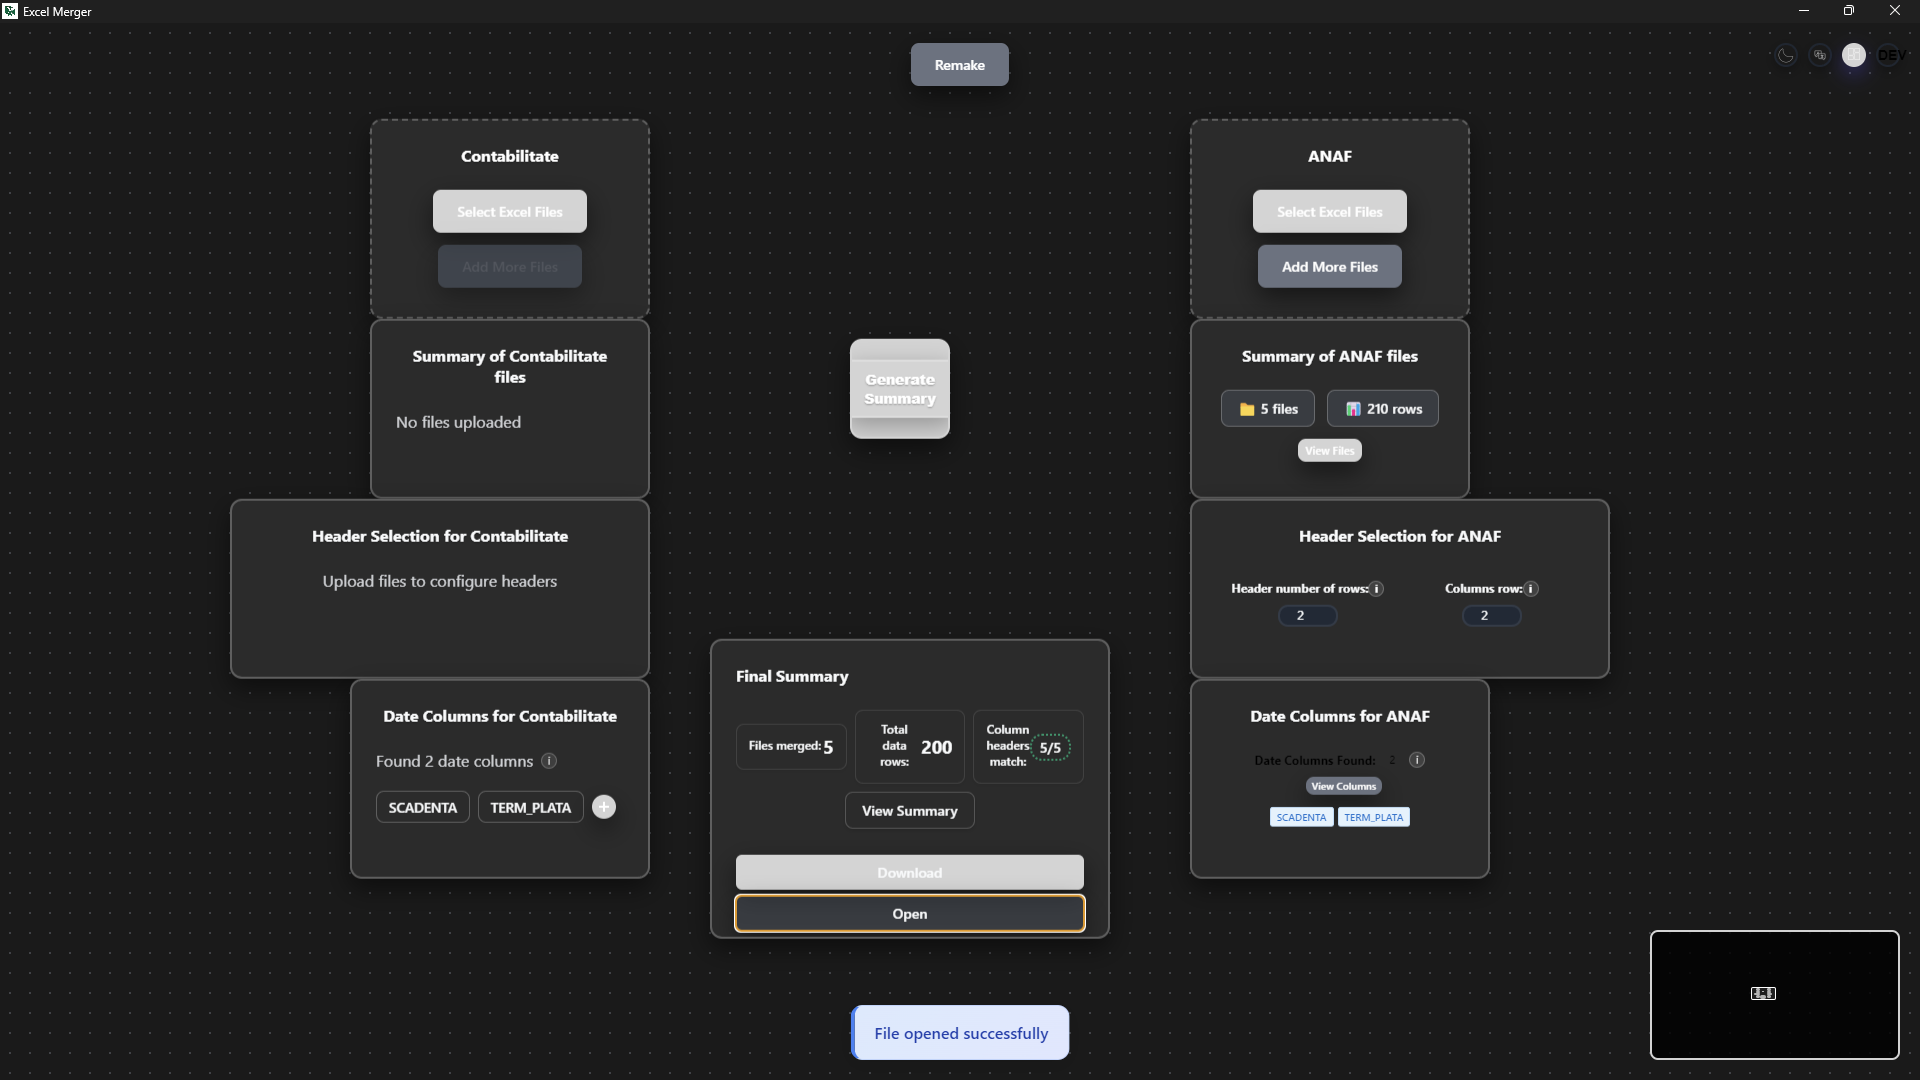
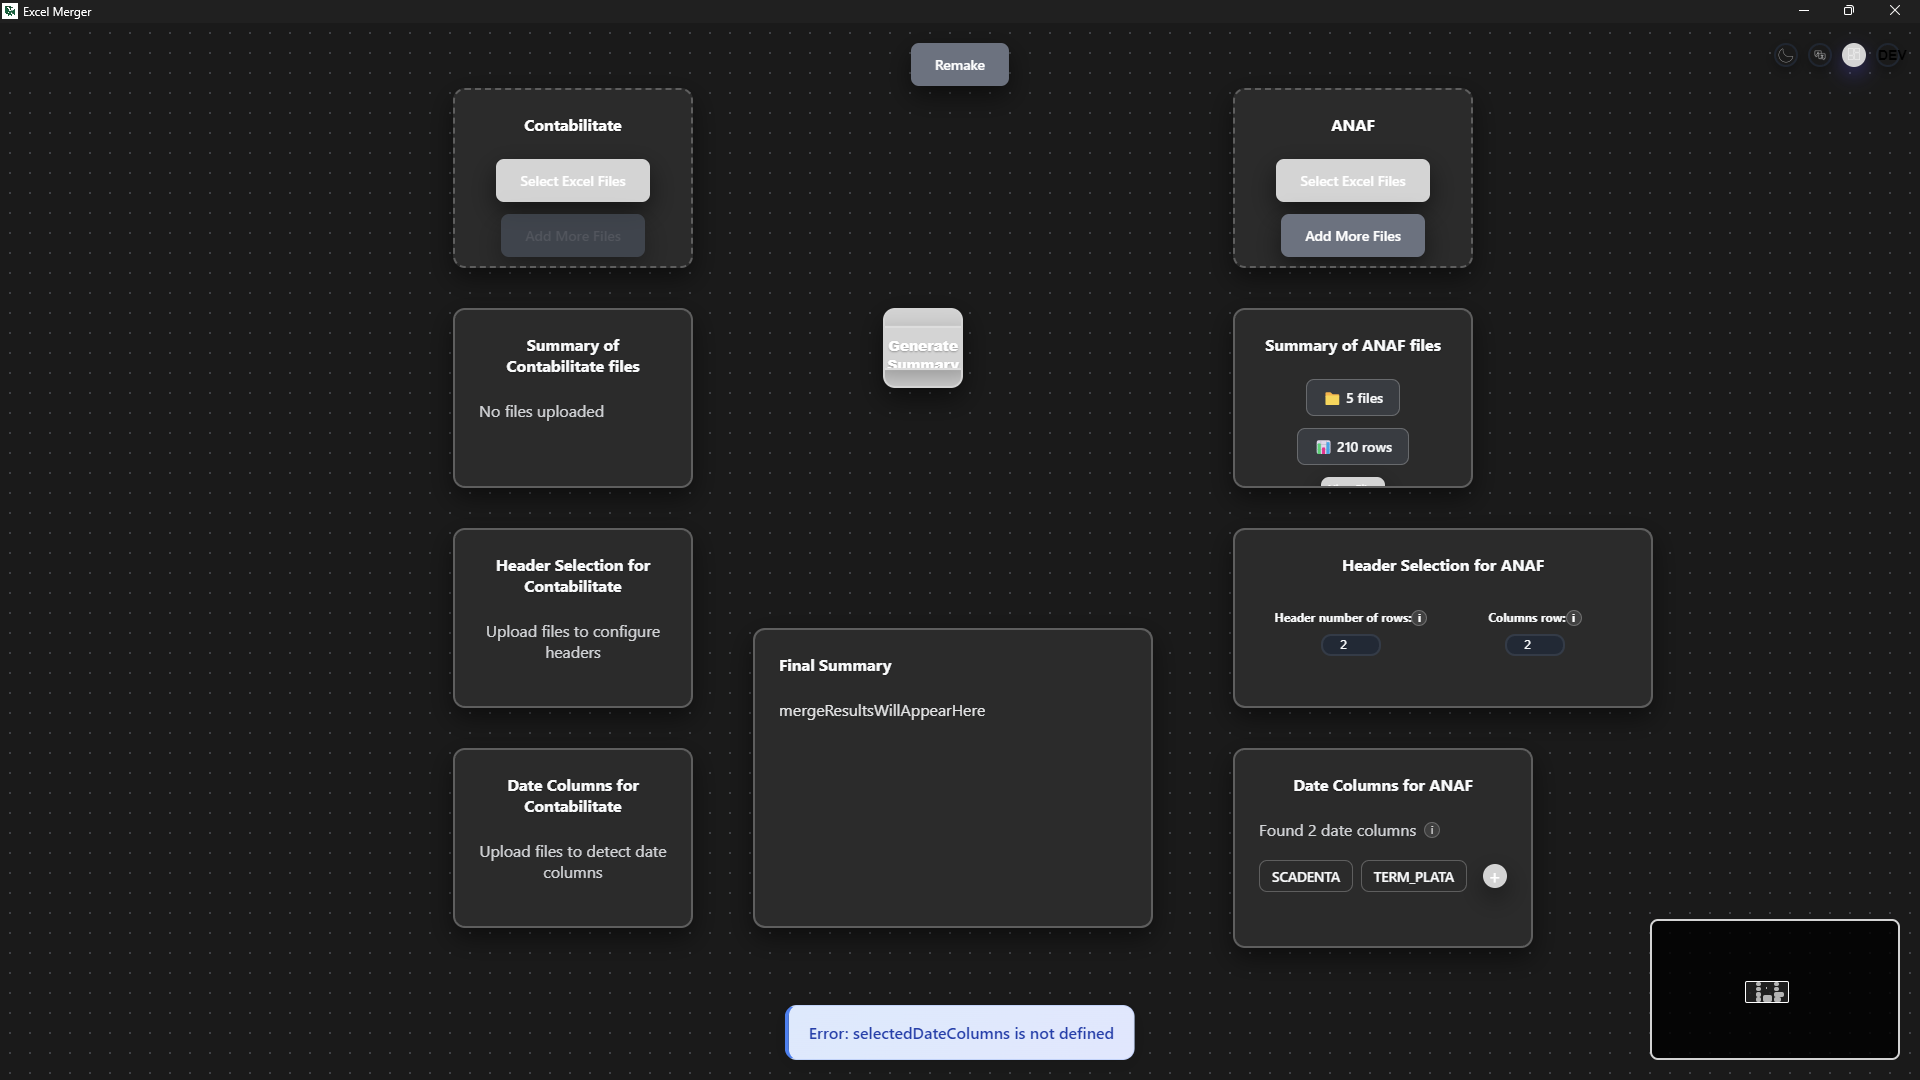
Fix selectedDateColumns undefined error in merged file generation
- Update handleGenerateSummary to use ANAF batch-specific variables (anafSelectedDateColumns, anafDateColumnsWithTime, anafCommonLines, anafColumnNamesRow)
- Add batch context tracking with dateColumnsPopupBatch state variable
- Make handleDateColumnChange function batch-aware to modify correct batch's selected columns
- Update date columns popup to display batch-specific data (columnNames, selectedDateColumns, autoDetectedDateColumns, dateColumnsWithTime)
- Fix settings loading to use batch-specific date column variables
- Update column viewing functions to set batch context when opening popup
- Resolve "selectedDateColumns is not defined" error when generating merged files

🤖 Generated with [Claude Code](https://claude.ai/code)

diff --git a/src/App.js b/src/App.js
@@ -227,6 +227,7 @@ function App() {
   ]);
   const [showUploadedFilesPopup, setShowUploadedFilesPopup] = useState(false);
   const [showDateColumnsPopup, setShowDateColumnsPopup] = useState(false);
+  const [dateColumnsPopupBatch, setDateColumnsPopupBatch] = useState(null); // 'contabilitate' or 'anaf'
   const [columnSampleData, setColumnSampleData] = useState([]);
   const [availableButtons] = useState([
     { id: 'generate-summary-button', name: 'Generate Summary Button', type: 'button', active: true }
@@ -257,7 +258,9 @@ function App() {
         setCurrentLanguage(settings.language || 'en');
         setCommonLines(commonLinesValue);
         setColumnNamesRow(columnNamesRowValue);
-        setSelectedDateColumns(settings.selectedDateColumns || []);
+        // Load batch-specific date columns from settings
+        setAnafSelectedDateColumns(settings.anafSelectedDateColumns || []);
+        setContabilitateSelectedDateColumns(settings.contabilitateSelectedDateColumns || []);
         
         // Load saved layout positions only for current panels
         if (settings.panelPositions) {
@@ -734,27 +737,46 @@ function App() {
     }
   };
 
-  // Handle date column selection (multi-select)
+  // Handle date column selection (multi-select) - batch-aware
   const handleDateColumnChange = async (columnIndex) => {
-    const newSelectedColumns = selectedDateColumns.includes(columnIndex)
-      ? selectedDateColumns.filter(col => col !== columnIndex)
-      : [...selectedDateColumns, columnIndex];
-    
-    setSelectedDateColumns(newSelectedColumns);
-    
-    try {
-      const settings = await window.electronAPI.loadSettings();
-      await window.electronAPI.saveSettings({
-        ...settings,
-        selectedDateColumns: newSelectedColumns
-      });
-    } catch (error) {
-      console.error('Failed to save date columns:', error);
+    if (dateColumnsPopupBatch === 'anaf') {
+      const newSelectedColumns = anafSelectedDateColumns.includes(columnIndex)
+        ? anafSelectedDateColumns.filter(col => col !== columnIndex)
+        : [...anafSelectedDateColumns, columnIndex];
+      
+      setAnafSelectedDateColumns(newSelectedColumns);
+      
+      try {
+        const settings = await window.electronAPI.loadSettings();
+        await window.electronAPI.saveSettings({
+          ...settings,
+          anafSelectedDateColumns: newSelectedColumns
+        });
+      } catch (error) {
+        console.error('Failed to save ANAF date columns:', error);
+      }
+    } else if (dateColumnsPopupBatch === 'contabilitate') {
+      const newSelectedColumns = contabilitateSelectedDateColumns.includes(columnIndex)
+        ? contabilitateSelectedDateColumns.filter(col => col !== columnIndex)
+        : [...contabilitateSelectedDateColumns, columnIndex];
+      
+      setContabilitateSelectedDateColumns(newSelectedColumns);
+      
+      try {
+        const settings = await window.electronAPI.loadSettings();
+        await window.electronAPI.saveSettings({
+          ...settings,
+          contabilitateSelectedDateColumns: newSelectedColumns
+        });
+      } catch (error) {
+        console.error('Failed to save Contabilitate date columns:', error);
+      }
     }
   };
 
   // Gather sample data for Contabilitate columns when opening the popup
   const handleContabilitateViewColumnsClick = async () => {
+    setDateColumnsPopupBatch('contabilitate');
     if (contabilitateFiles.length === 0 || contabilitateColumnNames.length === 0) {
       setShowDateColumnsPopup(true);
       return;
@@ -792,6 +814,7 @@ function App() {
 
   // Gather sample data for ANAF columns when opening the popup
   const handleAnafViewColumnsClick = async () => {
+    setDateColumnsPopupBatch('anaf');
     if (anafFiles.length === 0 || anafColumnNames.length === 0) {
       setShowDateColumnsPopup(true);
       return;
@@ -981,7 +1004,7 @@ function App() {
       return;
     }
     
-    if (commonLines < 0 || commonLines > 100) {
+    if (anafCommonLines < 0 || anafCommonLines > 100) {
       setStatus('Please enter a valid number of common lines (0-100)');
       return;
     }
@@ -1011,11 +1034,11 @@ function App() {
       // Process only ANAF files for file generation
       const result = await window.electronAPI.mergeAndSaveExcel({
         filesData: anafFiles,
-        commonLines: parseInt(commonLines),
+        commonLines: parseInt(anafCommonLines),
         outputPath,
-        dateColumnIndices: selectedDateColumns,
-        dateColumnsWithTime,
-        columnNamesRow: parseInt(columnNamesRow)
+        dateColumnIndices: anafSelectedDateColumns,
+        dateColumnsWithTime: anafDateColumnsWithTime,
+        columnNamesRow: parseInt(anafColumnNamesRow)
       });
 
       if (result.success) {
@@ -3223,10 +3246,25 @@ function App() {
               </div>
               <div className="popup-body">
                 <div className="columns-grid">
-                  {columnNames.map((col, index) => {
-                    const isSelected = selectedDateColumns.includes(index);
-                    const isAutoDetected = autoDetectedDateColumns.includes(index);
-                    const hasTime = dateColumnsWithTime.includes(index);
+                  {(() => {
+                    // Get batch-specific data based on which batch opened the popup
+                    const currentColumnNames = dateColumnsPopupBatch === 'anaf' 
+                      ? anafColumnNames 
+                      : contabilitateColumnNames;
+                    const currentSelectedDateColumns = dateColumnsPopupBatch === 'anaf' 
+                      ? anafSelectedDateColumns 
+                      : contabilitateSelectedDateColumns;
+                    const currentAutoDetectedDateColumns = dateColumnsPopupBatch === 'anaf' 
+                      ? anafAutoDetectedDateColumns 
+                      : contabilitateAutoDetectedDateColumns;
+                    const currentDateColumnsWithTime = dateColumnsPopupBatch === 'anaf' 
+                      ? anafDateColumnsWithTime 
+                      : contabilitateDateColumnsWithTime;
+                    
+                    return currentColumnNames.map((col, index) => {
+                      const isSelected = currentSelectedDateColumns.includes(index);
+                      const isAutoDetected = currentAutoDetectedDateColumns.includes(index);
+                      const hasTime = currentDateColumnsWithTime.includes(index);
                     
                     return (
                       <button
@@ -3266,8 +3304,9 @@ function App() {
                           {isSelected && <span className="badge selected">✅</span>}
                         </div>
                       </button>
-                    );
-                  })}
+                      );
+                    });
+                  })()}
                 </div>
               </div>
             </div>
